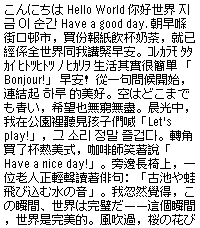
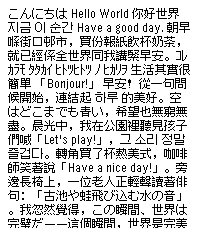
add comparison. add notificaion only pack TUMBLED_LITE

diff --git a/build.js b/build.js
@@ -74,3 +74,9 @@ await $`touch build/TUMBLED_PBL/017`;
 await $`touch build/TUMBLED_PBL/018`;
 
 await $`bun run ./PebbleFontTool/bin/pbl pack build/TUMBLED_PBL -o build/TUMBLED.pbl`;
+
+await $`cp -f build/TUMBLED_PBL/001 build/TUMBLED_PBL/002`;
+await $`cp -f build/TUMBLED_PBL/006 build/TUMBLED_PBL/005`;
+await $`cp -f build/TUMBLED_PBL/007 build/TUMBLED_PBL/008`;
+
+await $`bun run ./PebbleFontTool/bin/pbl pack build/TUMBLED_PBL -o build/TUMBLED_LITE.pbl`;

diff --git a/README.md b/README.md
@@ -1,6 +1,6 @@
 # Tumbled Bitmap Font 圆石点阵黑
 
-This font is designed for PebbleOS, containing approximately 8000 Chinese characters, as well as support for Japanese and Korean. Most of the variants are modified and adjusted from existing open-source fonts. However, the Chinese characters in TUMBLED_18 were designed from scratch due to the lack of alternative open-source fonts in similar sizes.
+This font is designed for PebbleOS, containing approximately 8100 Chinese characters, as well as support for Japanese and Korean. Most of the variants are modified and adjusted from existing open-source fonts. However, the Chinese characters in TUMBLED_18 were designed from scratch due to the lack of alternative open-source fonts in similar sizes.
 
 If you are looking for more condensed font similar to PebbleOS's Gothic, check out [Kyanite Bitmap Font](https://github.com/TsFreddie/KYANITE).
 
@@ -34,6 +34,12 @@ TUMBLED_28
 | TUMBLED_18   | ![TUMBLED_18 Preview](./images/TUMBLED_18.png) | ![TUMBLED_18_BOLD Preview](./images/TUMBLED_18_BOLD.png) |
 | TUMBLED_24   | ![TUMBLED_24 Preview](./images/TUMBLED_24.png) | ![TUMBLED_24_BOLD Preview](./images/TUMBLED_24_BOLD.png) |
 | TUMBLED_28   | ![TUMBLED_28 Preview](./images/TUMBLED_28.png) | ![TUMBLED_28_BOLD Preview](./images/TUMBLED_28_BOLD.png) |
+
+Comparison between the current official language pack `en_CN` and `TUMBLED_24_BOLD` in `Default` text size:
+
+| Pebble (en_CN)                               | TUMBLED_24_BOLD                                  |
+| -------------------------------------------- | ------------------------------------------------ |
+| ![Compare_en_CN](./images/Compare_en_CN.png) | ![Compare_TUMBLED](./images/Compare_TUMBLED.png) |
 
 ## Progress & Roadmap
 
